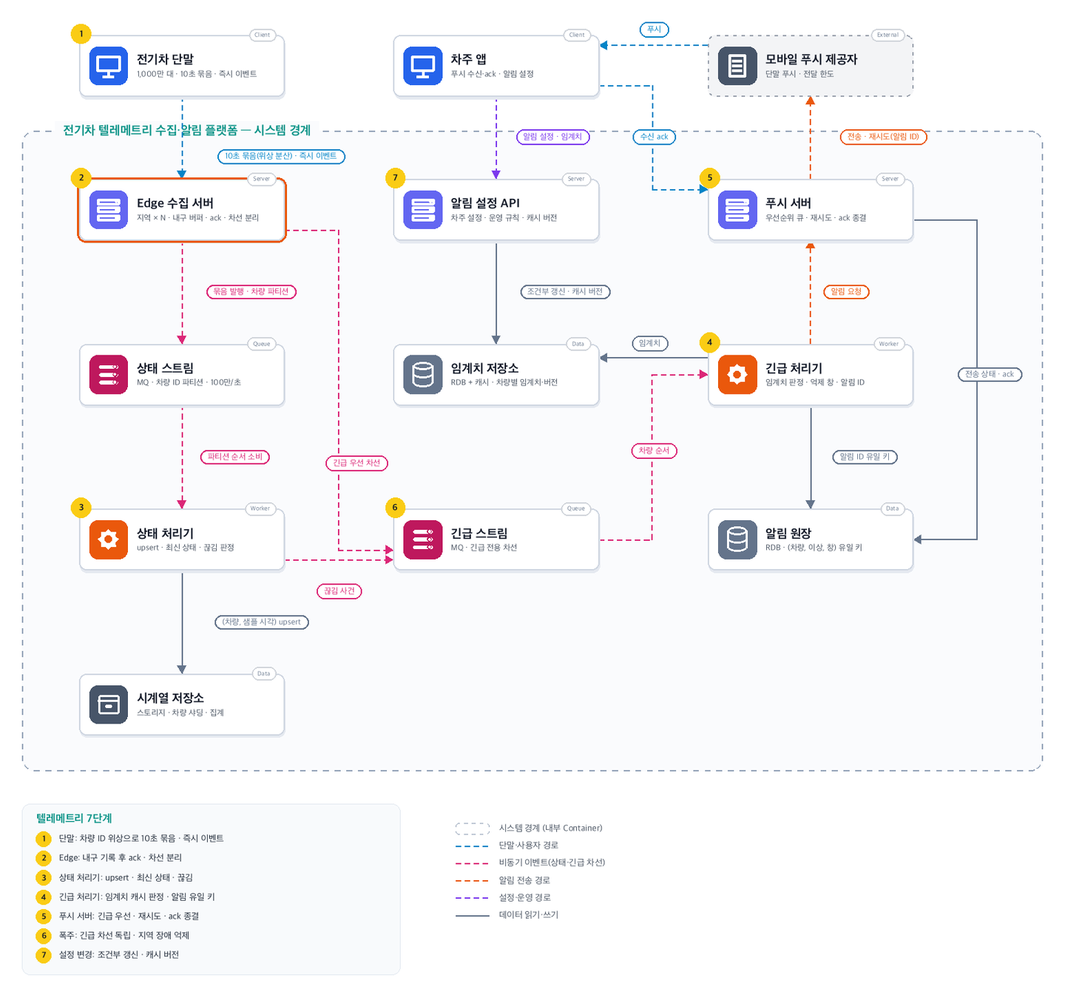
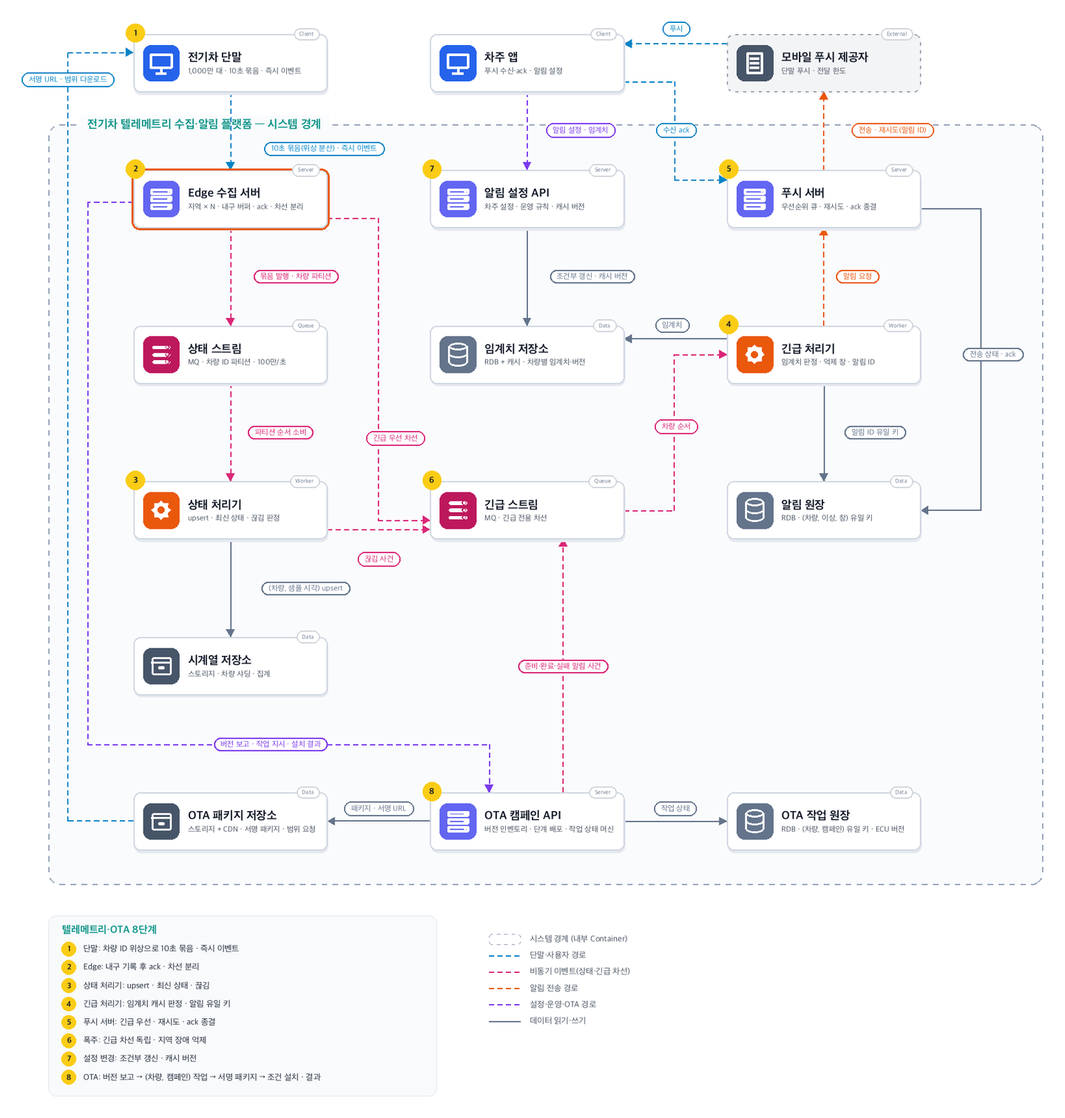
16장: 차량 소프트웨어 버전 확인·OTA 배포 경로 추가
- 요구사항 7(ECU 버전 보고 · 캠페인 단계 배포 · 서명 패키지 · 조건 설치 · 결과 보고)과 품질 속성 OTA 행
- 노드 3개 추가: OTA 캠페인 API(8) · OTA 작업 원장 · OTA 패키지 저장소(스토리지 + CDN)
- 결정: Edge 세션 중계(지터 · retry-after) · (차량, 캠페인) 작업 유일 키 · 설치 직전 허가(캠페인 ACTIVE 조건부 갱신) · 단계 실패율 2% 자동 중단 · 준비·완료·실패 알림은 긴급 스트림으로 기존 경로 재사용
- 동시성 흐름 9~12(캠페인 중단과 설치 시작 경쟁 · 재접속 폭주와 작업 조회 · 결과 재전송·역행 · 정비소 업데이트와 작업 SKIPPED), OTA 작업 상태 표, 멱등성 경계 5행, 장애 복구 4행, 검증 19~26
- 도식·GIF 재생성(장면 ⑨⑩ 추가), 상위 README 16장 행·공통 패턴 표 갱신

diff --git a/16_IoT 전기차 텔레메트리 수집·알림 플랫폼/README.md b/16_IoT 전기차 텔레메트리 수집·알림 플랫폼/README.md
@@ -1,8 +1,8 @@
 # 16. IoT 전기차 텔레메트리 수집·알림 플랫폼
 
 - **난이도**: 고급
-- **규모**: 차량 1,000만 대 · 10초 묶음 보고(1초 샘플 10개 · 약 2KB) · 평시 초당 100만 묶음(약 2GB/s) · 이상 이벤트 폭주 초당 5만 건(폭염·한파) · 긴급 알림 5초 · 지역 Edge 수집 N곳
-- **핵심 요약**: IoT 전기차 텔레메트리 수집·알림 플랫폼 · 차량 ID 위상 분산 보고 · Edge 수집(내구 기록 후 ack) · 상태/긴급 차선 분리 · (차량, 순번) 멱등 묶음 · 차량별 임계치 캐시 · (차량, 이상, 억제 창) 알림 유일 키 · ack 종결
+- **규모**: 차량 1,000만 대 · 10초 묶음 보고(1초 샘플 10개 · 약 2KB) · 평시 초당 100만 묶음(약 2GB/s) · 이상 이벤트 폭주 초당 5만 건(폭염·한파) · 긴급 알림 5초 · 지역 Edge 수집 N곳 · OTA 캠페인 100만 대 · 패키지 500MB · 단계 배포 7일
+- **핵심 요약**: IoT 전기차 텔레메트리 수집·알림 플랫폼 · 차량 ID 위상 분산 보고 · Edge 수집(내구 기록 후 ack) · 상태/긴급 차선 분리 · (차량, 순번) 멱등 묶음 · 차량별 임계치 캐시 · (차량, 이상, 억제 창) 알림 유일 키 · ack 종결 · OTA는 (차량, 캠페인) 작업 유일 키 · 차량이 당겨 가는 단계 배포
 
 ## 1. 문제
 
@@ -14,16 +14,17 @@
 4. 판정은 차량별 임계치(차종 기본값 + 차주 설정 + 운영 캠페인)로 하고, 판정 경로의 임계치 조회는 캐시로 끝낸다. 설정 변경은 1분 안에 판정에 반영
 5. 같은 이상은 억제 창 안에 1회만 알린다. 차량 재전송·Edge 전환·재접속 몰아 보내기가 있어도 알림은 1회. 알림은 앱 수신 확인(ack)으로 종결하고 미확인은 재시도
 6. 상태 묶음은 시계열 저장소에 쌓아 차량·차량군 모니터링에 쓰고, 주행·충전 중 10초 보고가 끊기면 연결 끊김을 판정한다
+7. 차량은 접속할 때 ECU별 소프트웨어 버전과 하드웨어 리비전을 보고한다. 운영자가 캠페인(대상 차종·하드웨어 리비전·현재 버전 범위·목표 버전·패키지)을 등록하면 플랫폼은 대상 차량에 작업을 내려주고, 차량은 패키지를 내려받아 서명·해시를 검증한 뒤 설치 조건(주차·시동 OFF·SoC 30% 이상·차주 동의)이 맞을 때 설치하고 결과를 보고한다. 같은 차량에 같은 캠페인 작업 중복 0, 끊긴 다운로드는 이어받기, 설치 실패는 이전 버전으로 복귀, 캠페인은 단계(1% → 10% → 100%)로 배포하고 단계 실패율이 임계를 넘으면 자동 중단
 
 ### 문제 정의
 
-차량이 많아지자 중앙 수집 서버 한 곳이 동시 연결 수와 지역 통신 장애에 함께 흔들린다. 터널을 지난 차량이 밀린 묶음을 한꺼번에 보내면 같은 데이터가 두 번 저장되고, 배터리 과열 경보가 평시 상태 묶음 뒤에 줄을 서서 분 단위로 늦게 도착한다. 같은 과열을 10초마다 다시 알려 차주가 알림을 꺼 버린다. 차량 단말 펌웨어, 배터리 진단 알고리즘, 지도·경로 서비스는 범위 밖.
+차량이 많아지자 중앙 수집 서버 한 곳이 동시 연결 수와 지역 통신 장애에 함께 흔들린다. 터널을 지난 차량이 밀린 묶음을 한꺼번에 보내면 같은 데이터가 두 번 저장되고, 배터리 과열 경보가 평시 상태 묶음 뒤에 줄을 서서 분 단위로 늦게 도착한다. 같은 과열을 10초마다 다시 알려 차주가 알림을 꺼 버린다. 배터리 제어 소프트웨어 결함은 정비소 소환 대신 무선 업데이트로 고쳐야 하는데, 1,000만 대에 한꺼번에 내리면 잘못된 빌드가 전체에 퍼지고 주행 중 설치는 안전 문제가 된다. 차량 단말의 설치 로직(A/B 파티션·부팅 검증), 배터리 진단 알고리즘, 지도·경로 서비스는 범위 밖.
 
 ## 2. 설계
 
 ### 01 아키텍처 드라이버
 
-보내는 쪽이 1,000만 개이고 연결이 수시로 끊긴다. 데이터는 한 번 저장되어야 하고, 긴급 신호는 평시 데이터 양과 무관하게 5초 안에 사람에게 닿아야 한다.
+보내는 쪽이 1,000만 개이고 연결이 수시로 끊긴다. 데이터는 한 번 저장되어야 하고, 긴급 신호는 평시 데이터 양과 무관하게 5초 안에 사람에게 닿아야 한다. 내려보내는 소프트웨어는 검증된 패키지만, 안전한 조건에서만, 한 번에 일부에게만 설치되어야 한다.
 
 ### 02 품질 속성
 
@@ -34,6 +35,7 @@
 | 내구성 | ack된 묶음·이벤트 유실 0, Edge 장애 시 미전달 묶음은 디스크 버퍼에서 복구 |
 | 정확성 | 같은 묶음 중복 저장 0, 같은 이상 알림 중복 0, 설정 변경 반영 1분 |
 | 가용성 | 지역 Edge 1곳 장애에도 수집 지속, 차량 재접속 p95 30초 |
+| OTA | 캠페인 100만 대 · 500MB 패키지 7일 내 완료, 작업 조회 초당 1만(접속 폭주 시), 같은 (차량, 캠페인) 작업 1건, 주행 중 설치 0, 서명 검증 실패 패키지 설치 0, 단계 실패율 2% 초과 시 1분 내 자동 중단 |
 
 ### 03 아키텍처 택틱
 
@@ -46,14 +48,19 @@
 - 알림 유일 키 · (차량, 이상 종류, 억제 창)으로 알림 원장에 INSERT, 충돌이면 억제 기록만
 - 폭주 억제 · 지역 단위 끊김 비율이 임계를 넘으면 플랫폼 장애로 묶어 개별 알림을 억제, 푸시는 긴급 우선 큐
 - ack 종결 · 알림 상태 머신으로 ack·재시도·실패를 전이로 처리, ack가 전송 기록보다 먼저 와도 성립
+- 버전 인벤토리 · 차량이 접속 때 보고한 (차량, ECU, 버전, 하드웨어 리비전)을 보고 순번으로 최신만 보관, 캠페인 대상 선정은 인벤토리 조회
+- 작업 유일 키 · (차량 ID, 캠페인 ID) 유일 키로 작업 1건, 작업 상태 머신(OFFERED → DOWNLOADING → READY → INSTALLING → INSTALLED/FAILED)
+- 당겨 가는 배포 · 플랫폼은 작업을 조회하는 차량에만 내려주고 설치 시작은 차량이 조건을 판단, 설치 직전 허가 조회로 캠페인 중단을 반영
+- 단계 배포 · 캠페인 단계(1/10/100%)의 대상은 해시(차량 ID) 버킷으로 고정, 단계 실패율이 임계를 넘으면 PAUSED로 전이하고 신규 작업·설치 허가를 막음
+- 서명 패키지 · 패키지는 서명·해시와 함께 스토리지에 두고 CDN으로 배포, 서명 URL은 작업 ID 단위·24시간, 범위 요청으로 이어받기
 
 ### 04 아키텍처 스타일
 
-**Edge 수집 + 이중 차선 스트리밍 파이프라인 + 이벤트 기반 알림** — 차량 → Edge는 연결 유지 세션, Edge → 중앙은 MQ 비동기, 판정·알림은 스트림 소비자, 푸시 제공자 호출만 동기
+**Edge 수집 + 이중 차선 스트리밍 파이프라인 + 이벤트 기반 알림 + 당겨 가는 OTA** — 차량 → Edge는 연결 유지 세션, Edge → 중앙은 MQ 비동기, 판정·알림은 스트림 소비자, 푸시 제공자 호출만 동기. OTA는 차량이 Edge 세션으로 작업을 조회하는 요청·응답이고 패키지는 CDN에서 직접 받는다
 
 ### 05 아키텍처 패턴
 
-**Edge Ingestion · Dual-lane Stream · Idempotent Upsert · Alert Ledger** — 지역 Edge가 연결과 내구 버퍼를 맡고, 상태와 긴급을 다른 차선으로 흘리며, 저장은 멱등 upsert, 알림은 원장 유일 키로 1회가 된다(04·06장 패턴)
+**Edge Ingestion · Dual-lane Stream · Idempotent Upsert · Alert Ledger · Pull-based Staged Rollout** — 지역 Edge가 연결과 내구 버퍼를 맡고, 상태와 긴급을 다른 차선으로 흘리며, 저장은 멱등 upsert, 알림은 원장 유일 키로 1회가 된다(04·06장 패턴). OTA는 차량이 당겨 가는 작업 원장과 단계 게이트로 14장의 임계치 게이트·롤백 원리를 차량 쪽에 적용한다
 
 ### 06 트레이드오프
 
@@ -66,6 +73,10 @@
 | 수집 경로에서 중복 제거 후 저장 | Edge가 1,000만 차량의 최근 순번을 들고 있어야 하고 전환 시 그 상태도 옮겨야 한다. 저장을 (차량, 샘플 시각) upsert로 만들어 중복이 무해하게 한다 |
 | 중앙이 10초 상태 묶음을 평가해 알림 | 상태 스트림 적체가 그대로 알림 지연이 된다. 차량이 즉시 이벤트를 보내고 중앙은 추세·끊김 같은 묶음 기반 판정만 한다 |
 | 제공자 수락을 전달 완료로 간주 | 제공자 수락은 폰 도착이 아니다. 긴급 알림은 앱 ack로 종결하고 미확인은 재시도·보조 채널로 간다 |
+| 플랫폼이 설치 시점을 정해 차량에 설치 명령을 푸시 | 플랫폼은 차량이 지금 주행 중인지 10초 묶음으로만 알고, 명령이 도착했을 때 조건이 바뀌어 있을 수 있다. 조건 판단은 차량이 하고 플랫폼은 작업과 조건을 내려준 뒤 설치 직전 허가만 답한다 |
+| 차량이 OTA API에 직접 접속 | 차량에 두 번째 연결·인증 경로가 생기고 접속 폭주 제어가 두 곳이 된다. Edge 세션으로 중계하되 타임아웃·retry-after로 OTA 장애가 텔레메트리 경로에 번지지 않게 한다 |
+| 패키지를 Edge가 중계 | 500MB × 100만 대를 수집 서버가 나르면 긴급 경로와 대역·디스크를 다툰다. 패키지는 CDN에서 서명 URL로 직접 받고 Edge는 작업 메시지만 중계한다 |
+| 캠페인 대상 전체에 동시 배포 | 잘못된 빌드가 1,000만 대에 한 번에 퍼진다. 해시 버킷 단계(1/10/100%)로 내리고 단계 실패율로 자동 중단한다 |
 
 ### 07 아키텍처 결정
 
@@ -80,6 +91,11 @@
 - 푸시 서버는 긴급·일반 두 우선순위 큐를 두고 제공자 전달 한도 안에서 긴급을 먼저 보낸다 · 제공자 호출에는 알림 ID를 collapse 키로 넣어 재시도가 폰에 두 번 쌓이지 않게 한다 · 실패는 1초 → 4초 → 16초 지수 백오프 3회, 긴급 알림이 60초 안에 ack되지 않으면 1회 재전송하고 그래도 없으면 SMS 보조 채널(사전 동의된 차주만)로 보낸다
 - 앱 ack는 (알림 ID)로 원장 상태를 ACKED로 전이한다 · 전송 기록(SENT)보다 ack가 먼저 도착해도 CREATED → ACKED 전이를 허용하고, 그 뒤 도착한 전송 결과는 상태를 되돌리지 않는다
 - 임계치 저장소는 차종 기본값 ← 차주 설정 ← 운영 캠페인(리콜 대상 온도 하향 등) 순으로 병합한 차량별 임계치를 RDB에 (차량 ID, 설정 버전)으로 두고, 알림 설정 API가 조건부 갱신(`WHERE version = :expected`)으로 쓴 뒤 캐시 항목을 새 버전으로 교체한다 · 캐시 TTL 1분은 교체 누락의 상한이다 · 캠페인은 대상 차량의 설정 버전을 일괄 올리고 캐시는 TTL로 따라온다
+- 차량의 OTA 요청(버전 보고 · 작업 조회 · 설치 허가 · 설치 결과)은 Edge 세션의 별도 메시지 종류로 들어오고 Edge가 OTA 캠페인 API에 동기 중계한다(타임아웃 2초) · 접속 직후 작업 조회는 Edge가 0–300초 지터를 두어 재접속 폭주가 OTA API로 번지지 않게 하고, OTA API가 응답하지 못하면 차량에 retry-after(1시간)를 돌려주며 텔레메트리 ack 경로는 영향받지 않는다
+- OTA 캠페인 API는 버전 보고를 (차량, ECU) 최신 보고 순번으로 작업 원장의 인벤토리에 반영한 뒤 작업을 조회한다 · 캠페인 대상이고 현재 단계의 해시 버킷에 들며 보고 버전이 캠페인의 현재 버전 범위에 있으면 (차량 ID, 캠페인 ID) 유일 키로 작업을 INSERT하고, 이미 있으면 그 작업을 돌려준다 · 응답에는 작업 ID·목표 버전·패키지 해시·서명 URL(작업 ID 단위, 24시간)·설치 조건이 담긴다 · 보고 버전이 이미 목표 이상이면 작업을 SKIPPED로 닫는다
+- 차량은 CDN에서 범위 요청으로 패키지를 받고(끊기면 받은 범위부터 이어받기, URL 만료는 작업 재조회로 새 URL) 서명·해시를 검증한 뒤 READY를 보고한다 · 설치는 차량이 주차·시동 OFF·SoC ≥ 30%·차주 동의를 모두 확인한 시점에 설치 허가를 조회하고, OTA API는 캠페인이 ACTIVE일 때만 `WHERE campaign.status = 'ACTIVE'` 조건부 갱신으로 INSTALLING 전이를 허용한다 · 설치 후 부팅 검증에 실패하면 차량이 이전 파티션으로 복귀하고 FAILED를 보고한다
+- 캠페인 단계는 운영자가 승격하고(1% → 10% → 100%), OTA API는 단계별 INSTALLED·FAILED를 1분 창으로 집계해 실패율이 2%를 넘으면 캠페인을 PAUSED로 전이한다 · PAUSED 이후 작업 조회에는 새 작업을 주지 않고 설치 허가는 거절하며, 허가 뒤 설치 중인 차량 수를 운영 화면에 보여준다 · 캠페인 수정·승격·중단은 (캠페인 ID, 캠페인 버전) 조건부 갱신으로 하나만 성립한다
+- 작업이 READY·INSTALLED·FAILED로 바뀌면 OTA API가 긴급 스트림에 일반 등급 사건을 발행하고 기존 알림 경로(긴급 처리기 → 알림 원장 → 푸시 서버)로 차주 앱에 알린다 · 알림 유일 키의 이상 종류는 `OTA_READY:캠페인 ID`처럼 캠페인을 포함해 같은 작업의 재보고가 알림을 늘리지 않는다
 
 #### 긴급 알림 지연 예산 (차량 발생 → 앱 도착 p95 5초)
 
@@ -105,6 +121,10 @@
 | 임계치 RDB 장애 | 캐시 적중분은 판정 지속, 미스는 차종 기본값으로 판정하고 설정 버전 "기본값"으로 기록 |
 | 푸시 제공자 한도·장애 | 지수 백오프, 긴급은 ack 60초 미확인 시 SMS 보조 채널, 일반은 큐 보류 |
 | 재접속 몰아 보내기 폭주 | Edge가 차량당 전송 속도를 제한(초당 묶음 20개), 이벤트 먼저 수신 |
+| OTA 캠페인 API 장애 | Edge가 차량에 retry-after 응답, 텔레메트리 경로 영향 0, 복구 후 다음 접속·1시간 주기 조회로 재개 |
+| 패키지 저장소·CDN 장애 | 차량이 받은 범위를 보관, 복구 후 이어받기, 서명 URL 만료는 작업 재조회로 새 URL |
+| 단계 실패율 2% 초과 | 캠페인 PAUSED, 신규 작업·설치 허가 중단, 설치 중 차량 수 집계, 운영자 판단 후 재개·폐기 |
+| 설치 후 부팅 검증 실패 | 차량이 이전 파티션으로 복귀, FAILED(BOOT) 보고, 실패율 집계에 반영 |
 
 #### 알림 상태
 
@@ -119,6 +139,18 @@
 | RESOLVED | 이상 해제, 해제 알림 전송 | 없음 |
 | SUPPRESSED | 억제 창 내 중복, 기록만 | 없음 |
 
+#### OTA 작업 상태
+
+| 상태 | 뜻 | 전이 (주체) |
+|---|---|---|
+| OFFERED | (차량, 캠페인) 유일 키로 생성, 서명 URL 발급 | 다운로드 시작 보고 → DOWNLOADING (차량) · 보고 버전 ≥ 목표 → SKIPPED (OTA API) |
+| DOWNLOADING | 범위 요청으로 수신 중 | 검증 통과 보고 → READY · 서명·해시 불일치 → FAILED(SIGNATURE) |
+| READY | 패키지 검증 완료, 조건 대기 | 설치 허가(캠페인 ACTIVE) → INSTALLING (OTA API) · 캠페인 PAUSED → 허가 거절, 상태 유지 |
+| INSTALLING | 차량 설치 중 | 부팅 검증 통과 보고 → INSTALLED · 실패·복귀 보고 → FAILED(BOOT) |
+| INSTALLED | 목표 버전 확인, 종결 | 없음 |
+| FAILED | 실패 사유 기록, 실패율 집계 | 운영자 재시도 → 새 작업(캠페인 버전 증가) |
+| SKIPPED | 다른 경로로 이미 목표 버전 | 없음 |
+
 #### 동시성 처리 흐름
 
 1. **ack 유실과 재전송**: 차량이 묶음 100번을 보내고 Edge가 디스크 버퍼에 기록한 뒤 ack했는데 ack가 유실되면 차량은 100번을 다시 보낸다. Edge는 같은 (차량, 순번)이면 버퍼에 다시 쓰지 않고 ack만 하되, 이 중복 제거는 Edge 메모리의 최근 순번 창(차량당 64개)에 의존하는 최선 노력이다. 창을 벗어난 중복은 상태 스트림까지 흘러가고 시계열 upsert에서 같은 결과가 된다. 멱등의 최종 보장은 저장이 맡는다(04장 원칙).
@@ -129,6 +161,10 @@
 6. **임계치 변경 중 판정**: 차주가 앱에서 충전 완료 알림 기준을 80% → 90%로 바꾸는 순간 같은 차량의 이벤트가 판정 중이면, 그 판정은 읽은 설정 버전으로 끝나고 결과에 버전이 남는다. 두 기기에서 동시에 설정을 바꾸면 조건부 갱신으로 하나만 성립하고 다른 쪽은 409로 최신 설정을 다시 받는다. 캠페인이 대상 10만 대의 버전을 일괄 올리는 중에도 차량별 캐시 항목은 TTL 1분 안에 새 버전으로 따라온다.
 7. **푸시 재시도와 ack 경쟁**: 푸시 서버가 제공자 호출 후 SENT를 기록하기 전에 앱이 ack를 보낼 수 있다. 원장은 CREATED → ACKED 전이를 허용하고, 뒤늦게 도착한 SENT 갱신은 `WHERE status = 'CREATED'` 조건에 걸려 무시된다. 제공자가 타임아웃을 돌려줬지만 실제로는 전달돼 ack가 오면 RETRY 상태에서도 ACKED로 전이하고 예약된 재시도는 상태 확인 후 취소된다. collapse 키 덕에 재시도가 실제로 두 번 나가도 폰에는 하나만 남는다.
 8. **지역 장애와 끊김 폭주**: 지역 Edge나 통신사 장애로 50만 대가 동시에 끊기면 상태 처리기가 차량마다 끊김 사건을 내서 긴급 스트림과 푸시 서버가 폭주한다. 상태 처리기는 지역별 끊김 비율을 1분 창으로 집계해 5%를 넘으면 플랫폼 장애로 판정하고 운영 경보 1건만 내며 개별 끊김 알림을 억제한다. 복구 때는 차량이 0–10초 지터로 재접속해 Edge 접속 폭주를 분산한다(13장 복구 전략과 같은 원리).
+9. **캠페인 중단과 설치 시작의 경쟁**: 10% 단계에서 실패율이 2%를 넘어 OTA API가 캠페인을 PAUSED로 바꾸는 순간, 이미 READY인 차량 5천 대가 주차·SoC 조건을 만족해 설치 허가를 조회한다. 허가는 `UPDATE job SET status = 'INSTALLING' WHERE job.id = :id AND status = 'READY' AND (SELECT status FROM campaign WHERE id = :c) = 'ACTIVE'`로 한 문장이라 PAUSED 커밋 이후의 허가는 전부 거절된다. PAUSED 커밋 직전에 허가받은 차량은 설치를 계속하며, 이 수는 허가 시각으로 집계해 운영 화면에 "설치 중 N대"로 보인다. 플랫폼이 설치를 되돌릴 방법은 없고 차량의 부팅 검증·복귀가 마지막 방어선이다.
+10. **재접속 폭주와 작업 조회**: 지역 복구로 50만 대가 0–10초 지터로 재접속하면 같은 시각에 50만 건의 버전 보고·작업 조회가 생긴다. Edge는 세션 시작 뒤 작업 조회를 0–300초 지터로 늦춰 OTA API 부하를 초당 2천 이하로 펴고, 텔레메트리 ack는 이 지연과 무관하게 흐른다. OTA API가 타임아웃이면 Edge는 차량에 retry-after를 주고 차량은 1시간 뒤 다시 조회한다. 긴급 이벤트와 OTA 요청이 같은 세션으로 오지만 Edge는 긴급 이벤트를 먼저 처리한다.
+11. **설치 결과 보고 재전송과 역행**: 차량이 INSTALLED 보고의 ack를 못 받고 3회 재전송하면 (작업 ID, 상태) 전이가 한 번만 성립하고 나머지는 현재 상태 반환으로 끝난다. 세션이 바뀌면서 늦게 도착한 DOWNLOADING 보고는 상태 머신에 INSTALLED → DOWNLOADING 전이가 없어 무시된다. 결과 보고가 Edge A·B 두 세션으로 중복 도착해도 같은 작업 ID라 결과가 같다.
+12. **다른 경로의 업데이트와 작업**: 작업이 OFFERED인 차량이 정비소에서 유선으로 목표 버전 이상을 설치하고 재접속하면, 차량은 버전 보고를 먼저 보내고 ack를 받은 뒤 작업을 조회하므로 OTA API는 인벤토리를 갱신한 상태로 작업을 보고 SKIPPED로 닫는다. 보고 순번이 큰 보고만 인벤토리에 반영하므로 두 세션의 보고가 뒤바뀌어도 옛 버전이 최신을 덮지 않는다. 캠페인 대상 집계는 인벤토리 기준이라 정비소 설치분은 완료율에 SKIPPED로 따로 보인다.
 
 #### 멱등성 경계
 
@@ -144,13 +180,18 @@
 | 앱 → 알림 원장 | 알림 ID + 상태 전이 | ACKED 1회, 선도착 ack 허용 |
 | 설정 API → 임계치 저장소 | (차량 ID, 설정 버전) 조건부 갱신 | 동시 수정 하나만 성립, 캐시는 버전 교체 |
 | 캠페인 → 임계치 저장소 | (캠페인 ID, 차량 ID) | 재실행에도 버전 증가 1회 |
+| 차량 → OTA 캠페인 API (버전 보고) | (차량 ID, 보고 순번) | 큰 순번만 인벤토리 반영 |
+| OTA 캠페인 API → 작업 원장 (작업 생성) | (차량 ID, 캠페인 ID) 유일 키 | 작업 1건, 재조회는 같은 작업 반환 |
+| 차량 → OTA 캠페인 API (결과·허가) | (작업 ID, 상태) 전이 | 재전송 1회 적용, 역행·중단 후 허가 거절 |
+| 차량 → 패키지 저장소 | (작업 ID, 바이트 범위) | 이어받기, 전체는 해시로 검증 |
+| 운영자 → 캠페인 | (캠페인 ID, 캠페인 버전) 조건부 갱신 | 승격·중단·수정 하나만 성립 |
 
 ### 08 결정 기록 (ADR-001 · 제안 · 구현 전 검증 필요)
 
 - **맥락**: 송신자 1,000만 개가 수시로 끊기고 재전송한다. 데이터는 한 번만 남아야 하고 긴급 신호는 평시 데이터 양과 무관하게 5초 안에 사람에게 닿아야 한다.
-- **선택**: 지역 Edge가 연결·내구 버퍼·ack를 맡고, 상태와 긴급을 다른 스트림으로 흘리며, 저장은 멱등 upsert, 판정은 중앙 한 곳, 알림은 원장 유일 키와 ack 상태 머신으로 1회를 보장한다.
-- **결과와 비용**: Edge 디스크 버퍼·MQ 클러스터 2벌·시계열 저장소 운영 부담이 크고, 중복 제거를 저장소에 맡기므로 시계열 쓰기는 upsert 가능한 저장소여야 한다. 억제 창 30분은 같은 이상의 재발을 놓칠 수 있어 심각도 단계로 보완한다.
-- **재검토 조건**: 평시 묶음량이 저장 비용을 넘으면 Edge에서 샘플 요약(10초 → 통계)으로 줄인다. 단말이 순번·보관을 지원하지 않는 구형 차량이 많으면 Edge가 차량당 순번 상태를 갖는 설계로 되돌린다. 긴급 판정 지연이 예산을 반복해서 넘으면 Edge 1차 판정을 재검토한다.
+- **선택**: 지역 Edge가 연결·내구 버퍼·ack를 맡고, 상태와 긴급을 다른 스트림으로 흘리며, 저장은 멱등 upsert, 판정은 중앙 한 곳, 알림은 원장 유일 키와 ack 상태 머신으로 1회를 보장한다. OTA는 차량이 Edge 세션으로 작업을 당겨 가고 패키지는 CDN에서 받으며, (차량, 캠페인) 작업 유일 키·설치 직전 허가·단계 실패율 자동 중단으로 안전하게 내린다.
+- **결과와 비용**: Edge 디스크 버퍼·MQ 클러스터 2벌·시계열 저장소 운영 부담이 크고, 중복 제거를 저장소에 맡기므로 시계열 쓰기는 upsert 가능한 저장소여야 한다. 억제 창 30분은 같은 이상의 재발을 놓칠 수 있어 심각도 단계로 보완한다. OTA는 당겨 가는 방식이라 캠페인 완료 시각이 차량의 접속·주차 패턴에 달려 있고, 중단 직전 허가받은 차량의 설치는 플랫폼이 막지 못한다.
+- **재검토 조건**: 평시 묶음량이 저장 비용을 넘으면 Edge에서 샘플 요약(10초 → 통계)으로 줄인다. 단말이 순번·보관을 지원하지 않는 구형 차량이 많으면 Edge가 차량당 순번 상태를 갖는 설계로 되돌린다. 긴급 판정 지연이 예산을 반복해서 넘으면 Edge 1차 판정을 재검토한다. 긴급 리콜처럼 시한이 있는 캠페인이 늘면 푸시로 조회를 재촉하는 경로를 더한다.
 
 ### 검증
 
@@ -172,10 +213,18 @@
 - 검증 16 지역 50만 대 동시 끊김 → 운영 경보 1건, 개별 끊김 알림 0, 복구 시 재접속 분포 0–10초
 - 검증 17 차량 100만 대 모의 단말을 같은 시각에 기동 → 10초 구간의 초당 묶음 수 편차 ±10% 이내, 정각 피크 0
 - 검증 18 평시 초당 100만 묶음 24시간 → 상태 스트림 적체 ≤ 30초, 시계열 쓰기 오류 0, 긴급 경로 지연 영향 0
+- 검증 19 캠페인 등록(1% 단계) 후 대상 100만 대 조회 → 작업 부여 1만 대(해시 버킷), 나머지 응답 "작업 없음", 같은 차량 조회 3회 → 작업 1건·같은 작업 ID
+- 검증 20 다운로드 50% 지점에서 세션 종료 → 받은 범위부터 이어받기, 전체 재다운로드 0, 해시 검증 통과
+- 검증 21 변조 패키지(서명 불일치) 주입 → 설치 0, FAILED(SIGNATURE) 보고 1, 운영 경보 1
+- 검증 22 설치 허가 조회와 캠페인 PAUSED 동시 → PAUSED 커밋 이후 허가 전부 거절, 직전 허가분은 설치 완료·"설치 중 N대" 집계 일치
+- 검증 23 INSTALLED 보고 3회 재전송 + 늦은 DOWNLOADING 보고 → 상태 전이 1회, 역행 0, 알림 1건
+- 검증 24 정비소에서 목표 버전 설치 뒤 재접속 → 인벤토리 갱신, 작업 SKIPPED, 알림 0
+- 검증 25 지역 복구 50만 대 재접속 → 작업 조회가 0–300초로 분산, OTA API 초당 ≤ 2천, 텔레메트리 ack p95 변화 0
+- 검증 26 OTA API 중단 10분 → 차량 retry-after 응답, 텔레메트리 수집·긴급 알림 영향 0, 복구 후 1시간 내 조회 재개
 
 ## 3. 전체 아키텍처 (System Context + Container)
 
-IoT 전기차 텔레메트리 수집·알림 플랫폼 · Edge 수집(내구 기록 후 ack) · 상태/긴급 차선 분리 · (차량, 순번) 멱등 묶음 · 차량별 임계치 캐시 · (차량, 이상, 억제 창) 알림 유일 키 · ack 종결
+IoT 전기차 텔레메트리 수집·알림 플랫폼 · Edge 수집(내구 기록 후 ack) · 상태/긴급 차선 분리 · (차량, 순번) 멱등 묶음 · 차량별 임계치 캐시 · (차량, 이상, 억제 창) 알림 유일 키 · ack 종결 · OTA는 (차량, 캠페인) 작업 유일 키 · 서명 패키지 CDN 직접 수신 · 단계 배포·자동 중단
 
 ![전체 아키텍처](./architecture.png)
 
@@ -187,10 +236,10 @@ IoT 전기차 텔레메트리 수집·알림 플랫폼 · Edge 수집(내구 기
 
 | 구분 | 이름 | 기술·역할 | 내부 요소 |
 |---|---|---|---|
-| Client | 전기차 단말 | 1,000만 대 · 10초 묶음 · 즉시 이벤트 | 오프셋 = 해시(차량 ID) mod 10초 · (차량, 묶음 순번)·(차량, 이벤트 순번) · 두절 중 보관 · 재접속 지터 |
+| Client | 전기차 단말 | 1,000만 대 · 10초 묶음 · 즉시 이벤트 | 오프셋 = 해시(차량 ID) mod 10초 · (차량, 묶음 순번)·(차량, 이벤트 순번) · 두절 중 보관 · 재접속 지터 · ECU 버전 보고 · 패키지 서명 검증 · 조건 판단 후 설치 허가 조회 |
 | Client | 차주 앱 | 푸시 수신·ack · 알림 설정 | 알림 ID ack · 충전 완료 기준 등 차주 설정 |
 | External | 모바일 푸시 제공자 | 단말 푸시 · 전달 한도 | collapse 키 · 수락 ≠ 도착 |
-| Server | Edge 수집 서버 | 지역 × N · 내구 버퍼 · ack · 차선 분리 | 연결 유지 세션 · 디스크 버퍼(복제 2) · 최근 순번 창 · 차량당 속도 제한 · 긴급은 스트림 커밋 후 ack |
+| Server | Edge 수집 서버 | 지역 × N · 내구 버퍼 · ack · 차선 분리 | 연결 유지 세션 · 디스크 버퍼(복제 2) · 최근 순번 창 · 차량당 속도 제한 · 긴급은 스트림 커밋 후 ack · OTA 요청 동기 중계(0–300초 지터 · retry-after) |
 | Server | 알림 설정 API | 차주 설정 · 운영자 규칙 · 캐시 버전 | 차종 기본값 ← 차주 설정 ← 캠페인 병합 · 조건부 갱신 · 캐시 교체 |
 | Server | 푸시 서버 | 우선순위 큐 · 재시도 · ack 종결 | 긴급·일반 큐 · 지수 백오프 3회 · 60초 미ack 재전송 · SMS 보조 채널 · 원장 상태 전이 |
 | Queue | 상태 스트림 | MQ · 차량 ID 파티션 · 평시 100만/초 |  |
@@ -200,8 +249,11 @@ IoT 전기차 텔레메트리 수집·알림 플랫폼 · Edge 수집(내구 기
 | Data | 임계치 저장소 | RDB + 캐시 · 차량별 임계치·버전 | (차량 ID, 설정 버전) · 캐시 TTL 1분 · 캠페인 일괄 버전 증가 |
 | Data | 알림 원장 | RDB · (차량, 이상, 창) 유일 키 | 알림 상태 머신 · ack 선도착 허용 · SUPPRESSED 기록 |
 | Data | 시계열 저장소 | 스토리지 · 차량 샤딩 · 집계 | 원본 보존 창 · 차량군 집계 · 모니터링 화면 조회 |
+| Server | OTA 캠페인 API | 버전 인벤토리 · 단계 배포 · 작업 상태 머신 | (차량, 캠페인) 작업 유일 키 · 해시 버킷 단계 · 실패율 2% 자동 중단 · 설치 허가(캠페인 ACTIVE 조건) · 서명 URL 발급 · 준비·완료·실패 알림 사건 |
+| Data | OTA 작업 원장 | RDB · (차량, 캠페인) 유일 키 · ECU 버전 | 작업 상태 머신 · (차량, ECU) 최신 보고 순번 · 캠페인 버전 조건부 갱신 · 단계별 실패율 |
+| Data | OTA 패키지 저장소 | 스토리지 + CDN · 서명 패키지 · 범위 요청 | 서명·해시 동봉 · 서명 URL(작업 ID, 24시간) · 범위 요청 이어받기 |
 
-### 텔레메트리 7단계
+### 텔레메트리·OTA 8단계
 
 1. 단말: 차량 ID 위상으로 10초 묶음(순번) · 이상 즉시 이벤트
 2. Edge: 내구 기록 후 ack · 상태/긴급 차선 분리
@@ -210,3 +262,4 @@ IoT 전기차 텔레메트리 수집·알림 플랫폼 · Edge 수집(내구 기
 5. 푸시 서버: 긴급 우선 전송 · 재시도 · ack 종결
 6. 폭주: 긴급 차선 독립 · 지역 장애는 개별 알림 억제
 7. 설정 변경: 조건부 갱신 · 캐시 버전 교체
+8. OTA: 접속 때 버전 보고 → (차량, 캠페인) 작업 지시 → CDN 서명 패키지 이어받기·검증 → 조건 충족 시 설치 허가 → 결과 보고·단계 실패율 자동 중단

diff --git a/README.md b/README.md
@@ -21,7 +21,7 @@
 | [13](<./13_AIOps 장애 탐지와 대응/README.md>) | 고급 | AIOps 장애 탐지와 대응 | 서비스 120개 · 로그 피크 2만 건/초 | 핵심 경보는 AI 우회 · 다채널 호출·에스컬레이션 · 지연 예산·복구 전략 · 보조 분석 · 사람 승인 후 조치 |
 | [14](<./14_MLOps 모델 학습·배포 파이프라인/README.md>) | 고급 | MLOps 모델 학습·배포 파이프라인 | 일 학습 데이터 2천만 행 · 예측 피크 2천 RPS | 특징 저장소 · 시점 고정 학습 · 해시 등록 · 임계치 게이트 → 그림자 → 카나리 · 무중단 로드·롤백 · 라벨 성숙 후 평가 |
 | [15](<./15_LLMOps LLM 앱 릴리스·운영 플랫폼/README.md>) | 고급 | LLMOps LLM 앱 릴리스·운영 플랫폼 (신규) | 유스케이스 12개 · 일 300만 호출 · 피크 150 RPS | 불변 앱 번들 · 골든 세트 평가 게이트 · LLM 게이트웨이(예산·가드레일·폴백) · 마스킹 트레이스 · 피드백 환류 |
-| [16](<./16_IoT 전기차 텔레메트리 수집·알림 플랫폼/README.md>) | 고급 | IoT 전기차 텔레메트리 수집·알림 플랫폼 (신규) | 차량 1,000만 대 · 초당 100만 묶음 · 긴급 알림 5초 | 차량 ID 위상 분산 · Edge 수집(내구 기록 후 ack) · 상태/긴급 차선 분리 · 멱등 upsert · 임계치 캐시 · 알림 유일 키 · ack 종결 |
+| [16](<./16_IoT 전기차 텔레메트리 수집·알림 플랫폼/README.md>) | 고급 | IoT 전기차 텔레메트리 수집·알림 플랫폼 (신규) | 차량 1,000만 대 · 초당 100만 묶음 · 긴급 알림 5초 · OTA 100만 대 단계 배포 | 차량 ID 위상 분산 · Edge 수집(내구 기록 후 ack) · 상태/긴급 차선 분리 · 멱등 upsert · 임계치 캐시 · 알림 유일 키 · ack 종결 · OTA (차량, 캠페인) 작업 유일 키·설치 허가·단계 자동 중단 |
 
 ## 장을 가로지르는 공통 패턴
 
@@ -29,12 +29,12 @@
 
 | 패턴 | 한 줄 원리 | 쓰인 곳 |
 |---|---|---|
-| **DB가 순서를 정한다** (유일 키 · 조건부 UPDATE · 행 잠금) | 조회는 참고 정보로 두고, 확정은 `INSERT ... ON CONFLICT`나 `UPDATE ... WHERE 상태 = 기대값`처럼 쓰기 자체가 판정이 되게 한다. 두 요청이 겹치면 먼저 커밋한 쪽만 성립하고 뒤쪽은 현재 상태를 보고 409를 받는다. 여러 행은 고정 순서로 잠가 교착을 없앤다 | 01 슬롯 유일 키 · 02 리비전 행 잠금 · 03 진도 행 잠금 · 05 주문 행 잠금 · 07 좌석 ID 순 조건부 UPDATE · 09 SKU 순 할당 차감 · 13 승인 claim · 14 릴리스 전이 · 16 알림 유일 키·임계치 조건부 갱신 |
-| **상태 머신이 멱등성을 준다** | "현재 상태에서 허용된 전이만 적용"하면 같은 요청이 두 번 와도 두 번째는 무동작이다. 별도 멱등 키 없이 더블 클릭·재전송·콜백 중복이 처리된다 | 02 승인 더블 클릭 · 05 결제 콜백 중복·역전 · 07 좌석 상태 · 11 요청 종결 1회 · 13 승인·실행 · 14 릴리스 상태 · 15 번들 상태·평가 claim · 16 알림 ack 상태 전이 |
+| **DB가 순서를 정한다** (유일 키 · 조건부 UPDATE · 행 잠금) | 조회는 참고 정보로 두고, 확정은 `INSERT ... ON CONFLICT`나 `UPDATE ... WHERE 상태 = 기대값`처럼 쓰기 자체가 판정이 되게 한다. 두 요청이 겹치면 먼저 커밋한 쪽만 성립하고 뒤쪽은 현재 상태를 보고 409를 받는다. 여러 행은 고정 순서로 잠가 교착을 없앤다 | 01 슬롯 유일 키 · 02 리비전 행 잠금 · 03 진도 행 잠금 · 05 주문 행 잠금 · 07 좌석 ID 순 조건부 UPDATE · 09 SKU 순 할당 차감 · 13 승인 claim · 14 릴리스 전이 · 16 알림 유일 키·임계치 조건부 갱신·OTA 작업 유일 키·설치 허가(캠페인 ACTIVE 조건) |
+| **상태 머신이 멱등성을 준다** | "현재 상태에서 허용된 전이만 적용"하면 같은 요청이 두 번 와도 두 번째는 무동작이다. 별도 멱등 키 없이 더블 클릭·재전송·콜백 중복이 처리된다 | 02 승인 더블 클릭 · 05 결제 콜백 중복·역전 · 07 좌석 상태 · 11 요청 종결 1회 · 13 승인·실행 · 14 릴리스 상태 · 15 번들 상태·평가 claim · 16 알림 ack 상태 전이·OTA 작업 상태(결과 재전송·역행 무시) |
 | **파티션 키로 줄을 세운다** | 같은 키의 사건을 한 소비자가 순서대로 처리하면 DB 잠금 경합이 소비자 앞의 대기열로 바뀌고, N건을 한 트랜잭션으로 묶어 처리량을 올린다. 배치 안 개별 실패(중복·검증 실패)는 롤백 사유가 아니라 "그 건의 결과 기록"이며, 롤백은 시스템 오류에만 쓴다 | 04 행사별 단일 확정자 · 06 캠페인별 소비자 · 08 문서별 소유 노드 · 10 사용자 키 처리기 · 12 문서 ID 파티션 · 16 차량 ID 파티션(상태·긴급 스트림) |
 | **이중 쓰기는 체크포인트·Outbox로 하나로 만든다** | DB와 MQ, DB와 외부 시스템은 한 트랜잭션에 묶이지 않는다. 오프셋을 DB 체크포인트로 같은 트랜잭션에 저장하거나(소비 쪽), 메시지를 DB에 먼저 쓰고 발행기가 따로 전달한다(발행 쪽). 재전달은 멱등 키로 1회 결과가 된다 | 04 체크포인트 · 05·07·09 Transactional Outbox · 06 체크포인트 + ON CONFLICT · 11 사용량 (요청, 시도) 키 · 16 Edge 내구 버퍼 → at-least-once 발행 + (차량, 샘플 시각) upsert |
 | **외부가 끼면 사가로 보상한다** | 결제·외부 채널처럼 DB 롤백으로 되돌릴 수 없는 단계가 있으면 로컬 트랜잭션 + 보상 단계로 나눈다. 쓰기 경계가 하나인 동안은 쓰지 않고(06), 경계가 둘 이상으로 갈라지는 순간 도입한다 | 05 승인·매입·환불 사가 · 07 결제 연동과 늦은 성공 환불 · 09 재할당(회수 중 → 확인 → 확정 → 증가) |
-| **세대·버전으로 늦은 것을 거절한다** (Fencing · 버전 비교 · 포인터 전환) | 소유권·권한·릴리스에 단조 증가하는 번호를 두고, 번호가 작은 요청은 거절하거나 무시한다. 읽기 모델은 더 큰 버전만 적용하고, 전환은 포인터의 조건부 갱신 한 번으로 끝낸다 | 03 progress_epoch · 07 좌석 generation·투영 버전 · 08 노드 세대·권한 epoch · 10 보고 버전 포인터 · 11 시도 ID·버전 포인터 · 12 활성 버전 포인터 · 14 릴리스 포인터 · 15 번들 포인터·시도 ID·세트 버전 · 16 묶음 순번·설정 버전 |
+| **세대·버전으로 늦은 것을 거절한다** (Fencing · 버전 비교 · 포인터 전환) | 소유권·권한·릴리스에 단조 증가하는 번호를 두고, 번호가 작은 요청은 거절하거나 무시한다. 읽기 모델은 더 큰 버전만 적용하고, 전환은 포인터의 조건부 갱신 한 번으로 끝낸다 | 03 progress_epoch · 07 좌석 generation·투영 버전 · 08 노드 세대·권한 epoch · 10 보고 버전 포인터 · 11 시도 ID·버전 포인터 · 12 활성 버전 포인터 · 14 릴리스 포인터 · 15 번들 포인터·시도 ID·세트 버전 · 16 묶음 순번·설정 버전·ECU 보고 순번·캠페인 버전 |
 
 **함께 따라오는 원칙**
 
